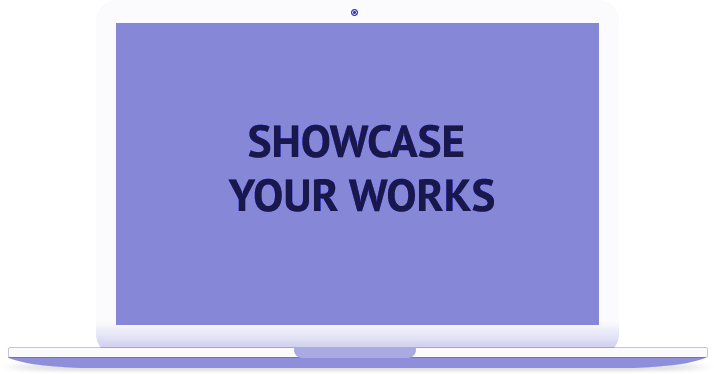
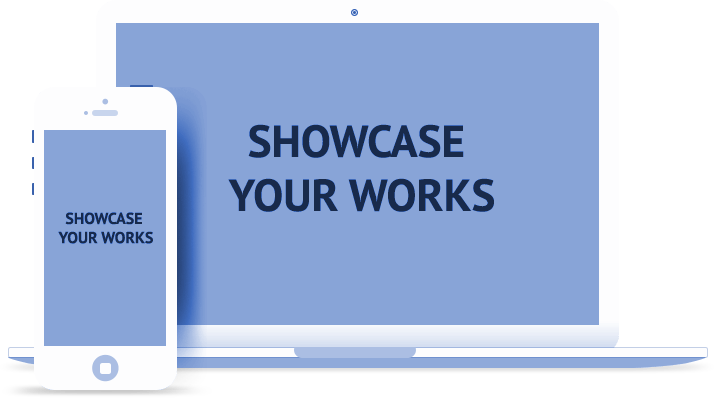
Cosmetic changes

diff --git a/style.css b/style.css
@@ -129,10 +129,15 @@ body {
 }
 
 .slider__wrapper {
+  height: 100%;
   color: #FFFFFF;
   text-align: center;
   position: relative;
   border: 1px solid transparent;
+}
+
+.slider__container {
+  height: 100%;
 }
 
 .slider__container--hidden {
@@ -140,22 +145,22 @@ body {
 }
 
 .slider__heading {
-  text-align: center;
   margin: 60px 0;
-  height: 100%;
+  display: flex;
+  justify-content: center;
+  flex-wrap: wrap;
 }
 
 .slider__title {
-  display: inline-block;
-  margin: 0 5%;
+  font-size: 45px;
+  font-weight: 400;
+  margin: 0 3%;
 }
 
 .slider__btn-more {
-  display: inline-block;
   background-color: #00AEFF;
   border: 0;
   border-radius: 5px;
-  margin-left: 50px;
   width: 220px;
   height: 60px;
   color: #FFFFFF;
@@ -178,6 +183,8 @@ body {
 /* SECTIONS */
 
 .section-title {
+  font-size: 30px;
+  font-weight: 400;
   margin: 0;
   color: #5F5F5D;
 }
@@ -207,6 +214,8 @@ body {
 }
 
 .apps__text {
+  font-size: 15px;
+  line-height: 26px;
   margin: 0;
   margin-bottom: 30px;
 }
@@ -422,7 +431,7 @@ body {
 }
 
 .footer__desc {
-  font-size: 13px;
+  font-size: 12px;
   color: #FFFFFF;
   margin-top: 20px;
 }
@@ -440,6 +449,14 @@ body {
 
 .menu {
   order: 1;
+}
+
+.slider__heading {
+  display: block;
+}
+
+.slider__title {
+  font-size: 40px;
 }
 
 .slider__btn-more {
@@ -564,6 +581,14 @@ body {
   height: 450px;
 }
 
+.slider__heading {
+  margin: 50px 0;
+}
+
+.slider__title {
+  font-size: 35px;
+}
+
 .slider__btn-more {
   width: 180px;
   height: 50px;
@@ -616,6 +641,7 @@ body {
 }
 
 .footer__side {
+  font-size: 15px;
   float: none;
 }
 

diff --git a/js/slider.js b/js/slider.js
@@ -24,7 +24,7 @@ function changeSlide() {
     switch(slide_nr) {
       case 1: createSlide(slide_nr, "We are a Creative Digital Agency", "img/slider/mac-yellow.png"); break;
       case 2: createSlide(slide_nr, "We are a Happy Digital Agency", "img/slider/mac-blue.png"); break;
-      case 3: createSlide(slide_nr, "We!", "img/slider/mac-green.png"); break;
+      case 3: createSlide(slide_nr, "We provide best solutions", "img/slider/mac-green.png"); break;
     };
   }
 }
